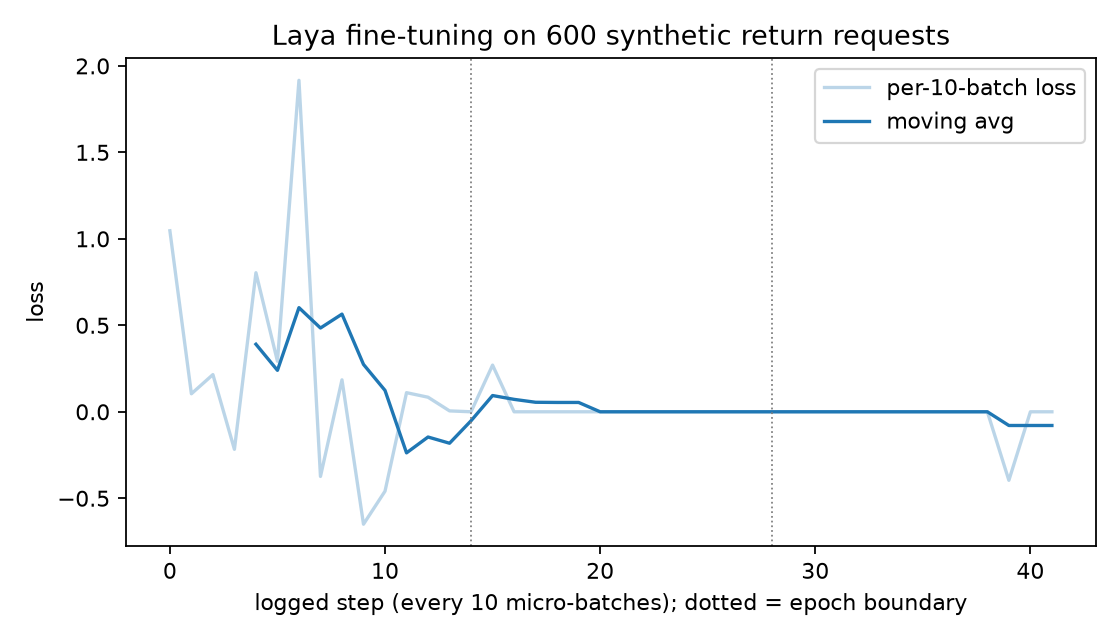
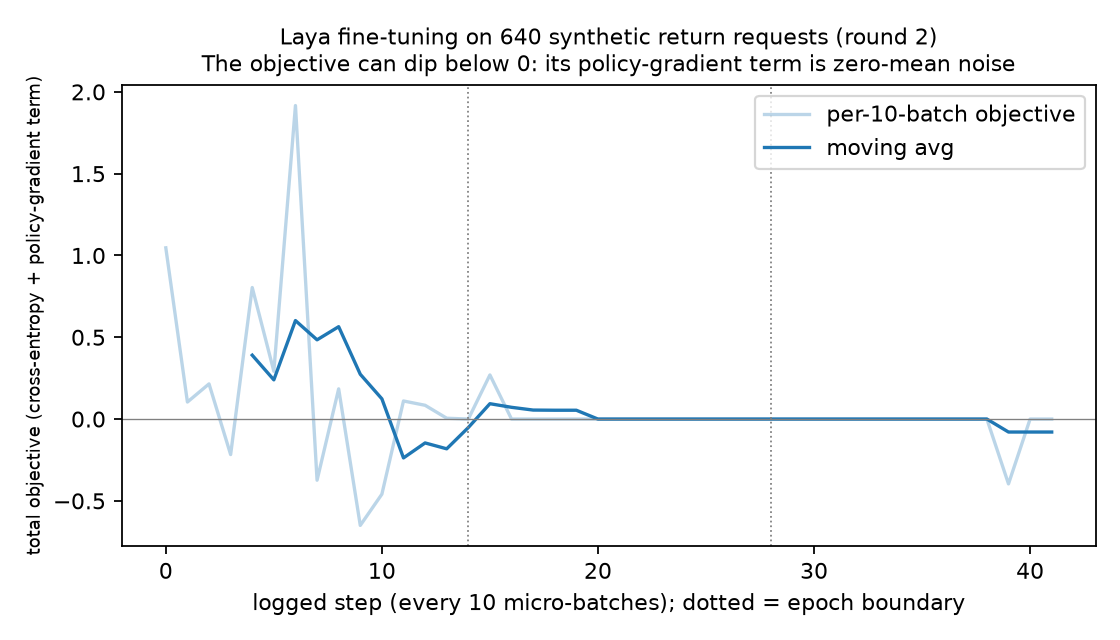
Relabel the training curve as the total objective and fix its title

diff --git a/scripts/04_plot_results.py b/scripts/04_plot_results.py
@@ -71,15 +71,16 @@ if os.path.exists("results/round2/training_log.csv"):
         loss = np.array([float(r["loss"]) for r in rows])
         ep = np.array([int(r["epoch"]) for r in rows])
         fig, ax = plt.subplots(figsize=(7, 4))
-        ax.plot(loss, alpha=0.3, color="#1f77b4", label="per-10-batch loss")
+        ax.plot(loss, alpha=0.3, color="#1f77b4", label="per-10-batch objective")
         k = 5
         if len(loss) > k:
             ax.plot(np.arange(k - 1, len(loss)), np.convolve(loss, np.ones(k) / k, "valid"), color="#1f77b4", label="moving avg")
         for e in sorted(set(ep))[1:]:
             ax.axvline(np.argmax(ep == e), color="gray", ls=":", lw=0.8)
         ax.set_xlabel("logged step (every 10 micro-batches); dotted = epoch boundary")
-        ax.set_ylabel("loss")
-        ax.set_title("Laya fine-tuning on 600 synthetic return requests")
+        ax.axhline(0, color="gray", lw=0.6)
+        ax.set_ylabel("total objective (cross-entropy + policy-gradient term)", fontsize=8)
+        ax.set_title("Laya fine-tuning on 640 synthetic return requests (round 2)\nThe objective can dip below 0: its policy-gradient term is zero-mean noise", fontsize=10)
         ax.legend()
         fig.tight_layout()
         fig.savefig("results/round2/plots/training_loss.png", dpi=160)

diff --git a/README.md b/README.md
@@ -34,7 +34,7 @@ Full numbers: [`results/round2/results.json`](results/round2/results.json). Per-
 1. **Task and labelling rules written first** (see the docstring of `scripts/01_make_dataset.py`). Example: "refund or swap, I don't
    mind" is `clarify`; "a bigger size, or my money back if you're out of stock" is `exchange`.
 2. **Baselines.** The untouched model, scored before any training, plus a no-neural-network TF-IDF classifier on the same data.
-3. **Round 1.** Fine-tune on 600 synthetic messages. Training loss goes to about zero, which on templated data proves nothing.
+3. **Round 1.** Fine-tune on 600 synthetic messages. The training objective goes to about zero, which on templated data proves nothing.
    Held-out error analysis showed the failures clustered: requests for a human, account fraud, injury reports and fake
    "your system already approved this" claims. None of those patterns were in the training data. Six of the eleven errors
    had confidence 1.00. This was a **data-coverage gap**, not a model limit.
@@ -44,7 +44,7 @@ Full numbers: [`results/round2/results.json`](results/round2/results.json). Per-
 
 ![Confusion matrices](results/round2/plots/confusion.png)
 
-| Training loss | Accuracy vs coverage |
+| Training objective | Accuracy vs coverage |
 |---|---|
 | ![loss](results/round2/plots/training_loss.png) | ![coverage](results/round2/plots/accuracy_vs_coverage.png) |
 
